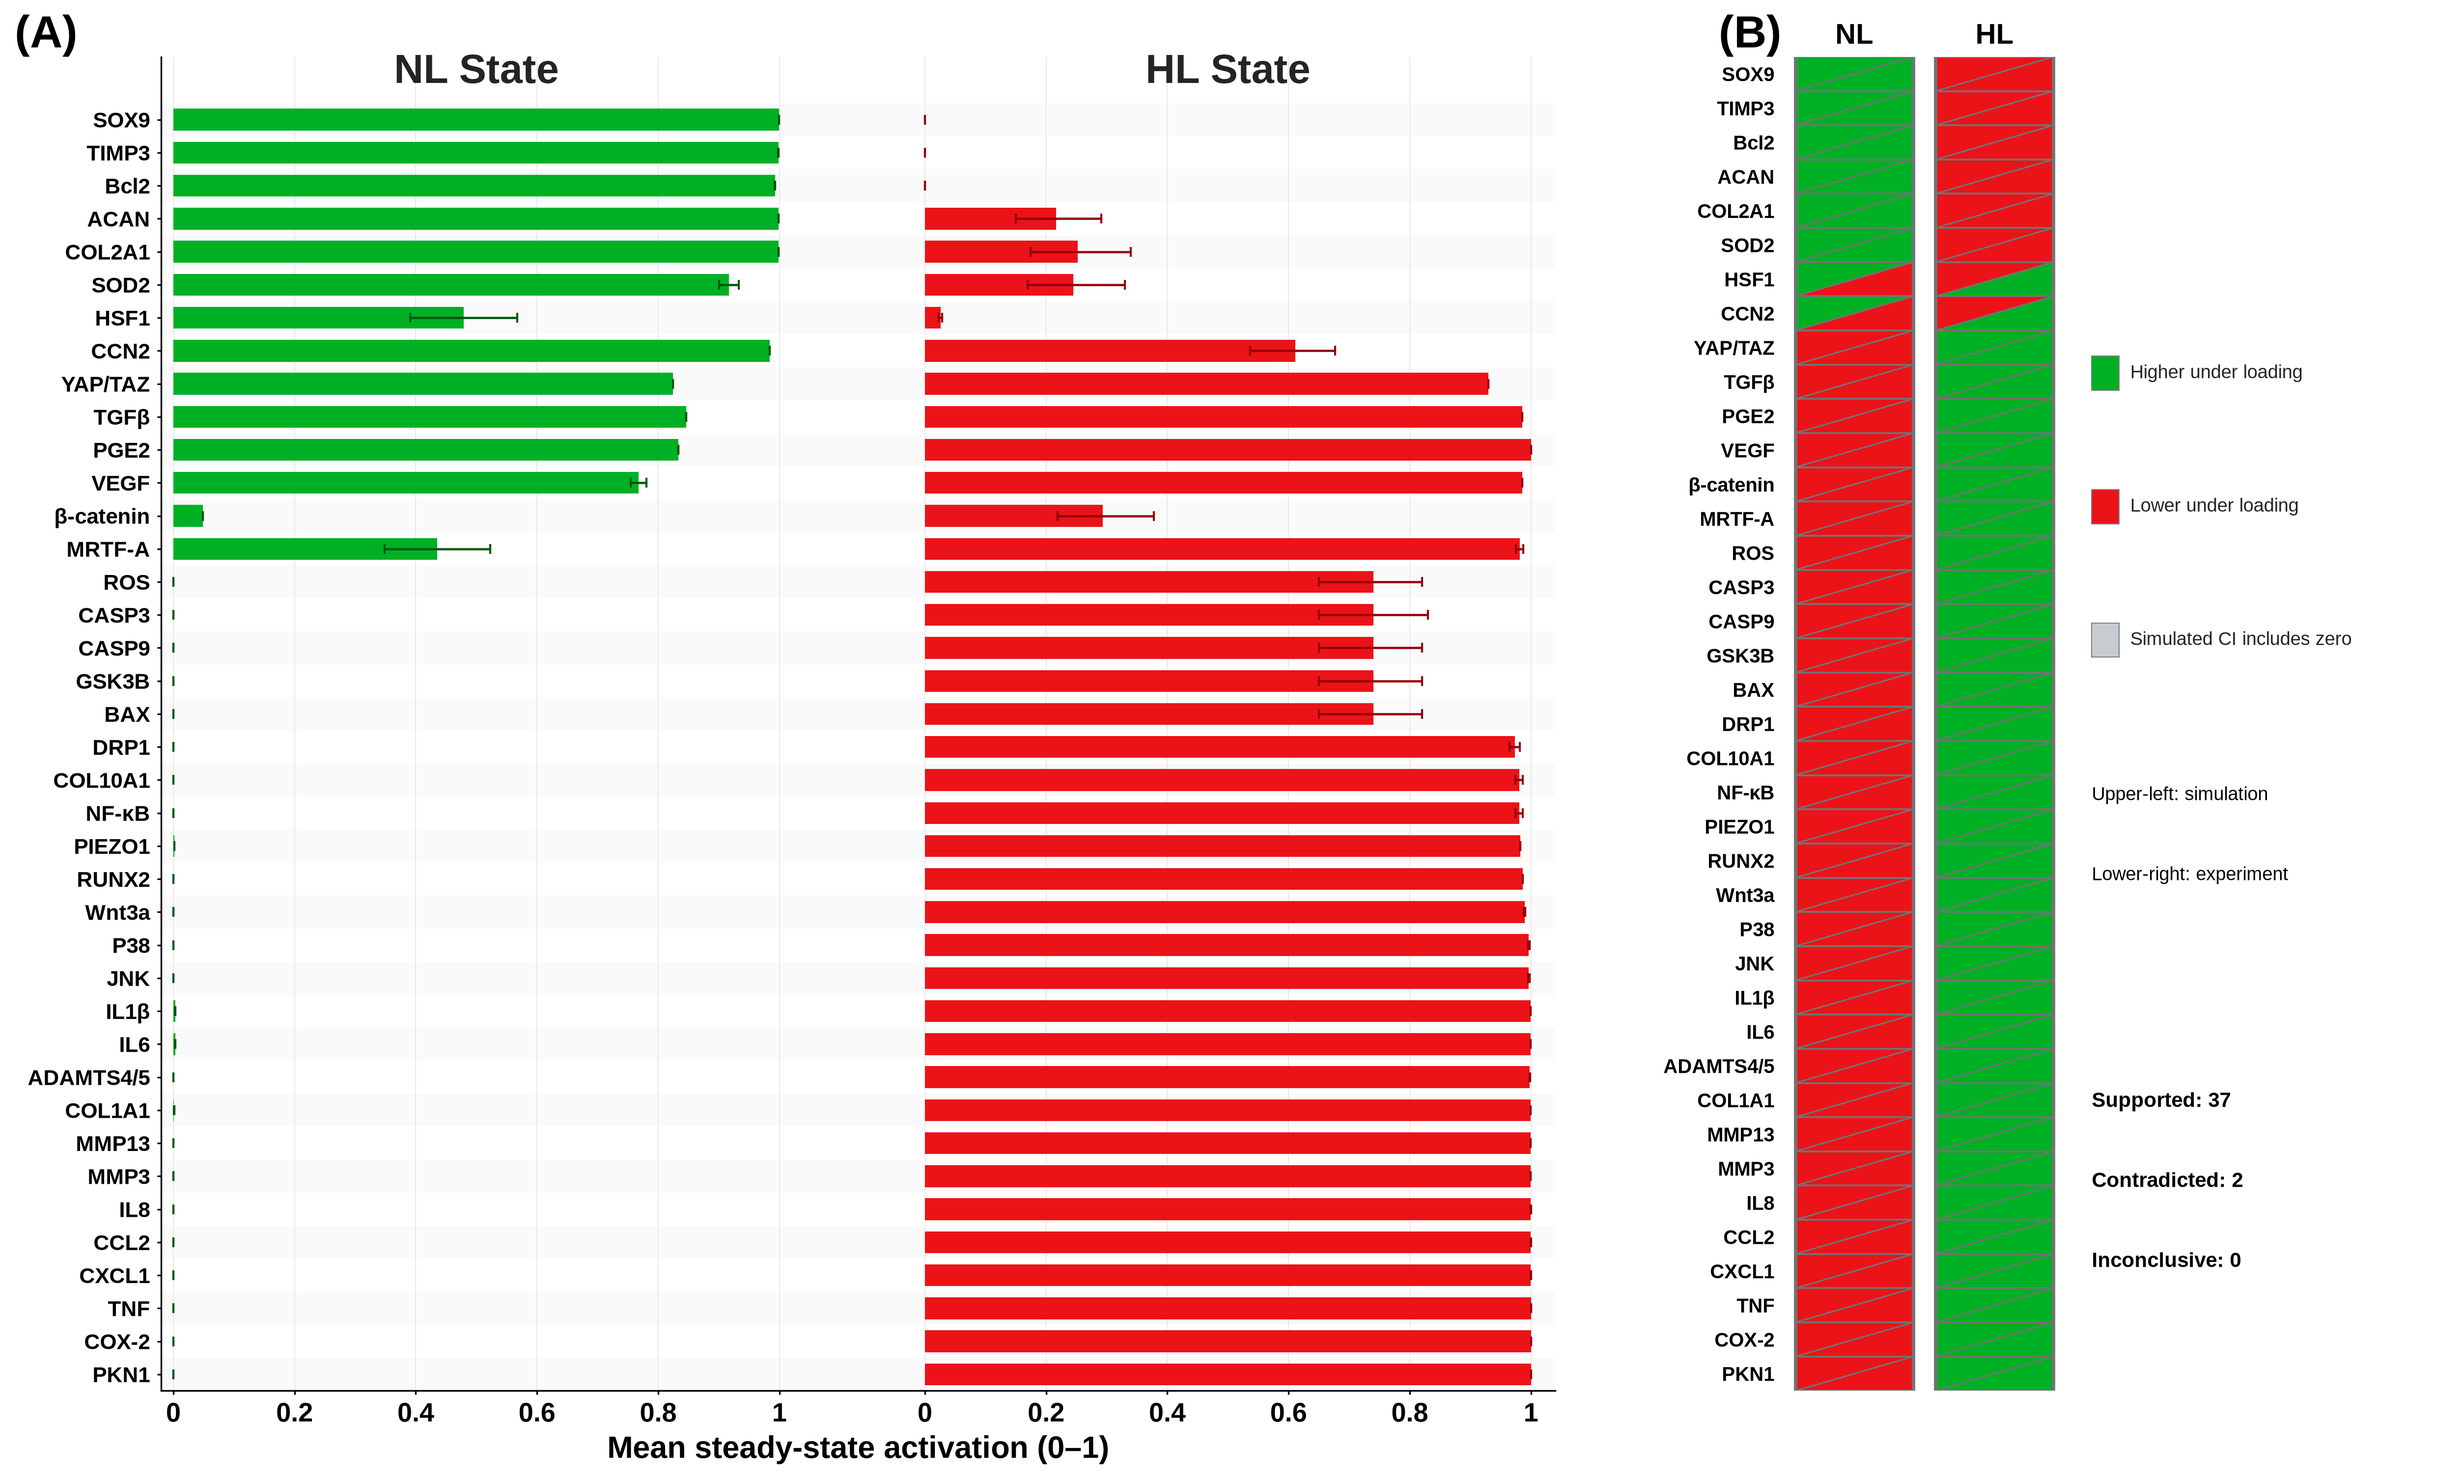
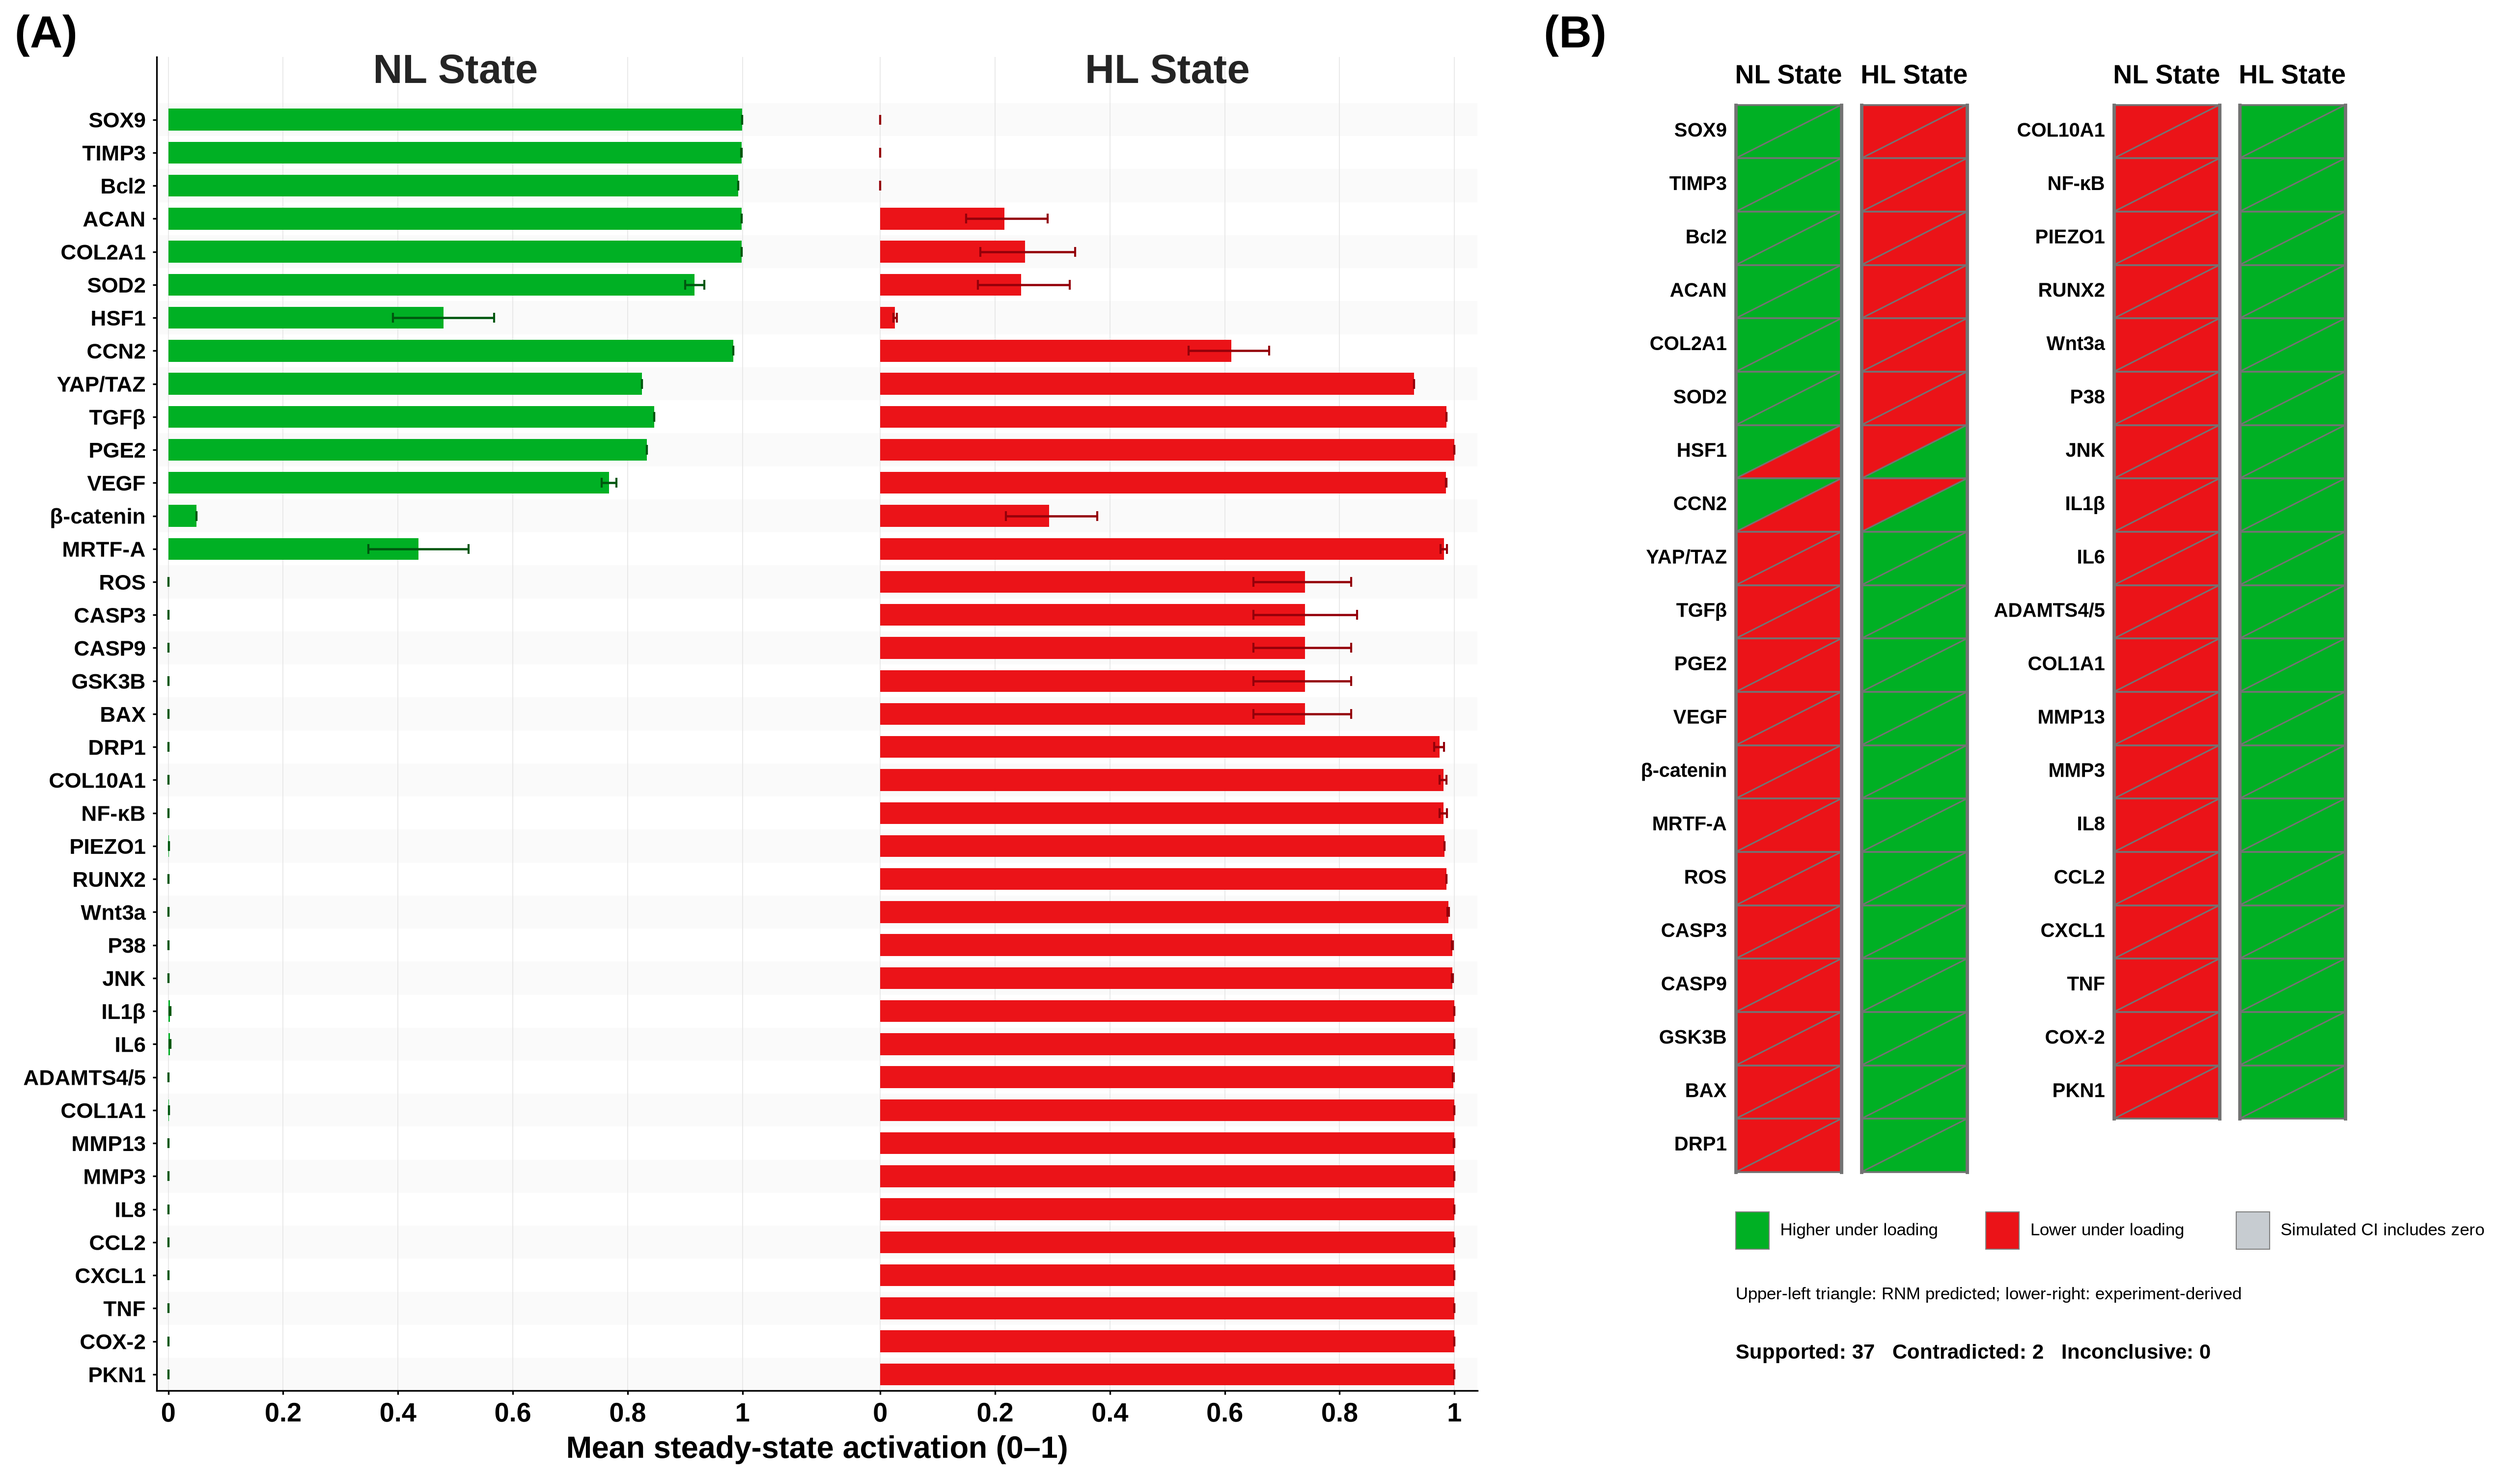
Match manuscript layout: two-block falsification sign grid, node-resolved titles

diff --git a/np_mt_rnm/paper_figures.py b/np_mt_rnm/paper_figures.py
@@ -122,9 +122,9 @@ NODE_RESOLVED_FIGURES = {
         ("CYT", "Cytokines, chemokines and proteases"),
     ],
     "NodeResolved_MET_ION_SURV_OXI": [
-        ("MET", "Metabolic and related regulators"),
-        ("ION", "Ion channels and related processes"),
-        ("CS", "Cell survival, apoptosis, mitophagy and DNA damage"),
+        ("MET", "Metabolic and related"),
+        ("ION", "Ion channels and related"),
+        ("CS", "Cell survival, apoptosis and mitophagy"),
         ("OXI", "Oxidative-stress defense and proteostasis"),
     ],
 }
@@ -509,7 +509,7 @@ def plot_falsification_profiles(nodes: Sequence[str], classes: Sequence[str],
     n = len(nodes)
 
     fig = plt.figure(figsize=(20, 0.24 * n + 2.4))
-    gs = fig.add_gridspec(1, 2, width_ratios=[2.1, 1], wspace=0.22)
+    gs = fig.add_gridspec(1, 2, width_ratios=[1.9, 1.2], wspace=0.12)
 
     # --- A: parallel bars -------------------------------------------------
     ax = fig.add_subplot(gs[0])
@@ -539,7 +539,7 @@ def plot_falsification_profiles(nodes: Sequence[str], classes: Sequence[str],
     ax.text(-0.06, 1.0, "(A)", transform=ax.transAxes, fontsize=22, fontweight="bold",
             ha="right", va="bottom")
 
-    # --- B: sign grid -----------------------------------------------------
+    # --- B: sign grid, split into two blocks as in the manuscript ---------
     ax = fig.add_subplot(gs[1])
     exp_dir = np.where(classes == "anabolic", 1, -1)
     sim_dir = np.zeros(n, dtype=int)
@@ -552,46 +552,45 @@ def plot_falsification_profiles(nodes: Sequence[str], classes: Sequence[str],
             return FALS_GRAY
         return FALS_GREEN if (d == 1 and code == 2) or (d == -1 and code == 1) else FALS_RED
 
-    bounds = [(0.56, 1.51), (1.69, 2.64)]
-    for i in range(n):
-        yt, yb = i + 0.5, i + 1.5
-        for col, (xl, xr) in enumerate(bounds):
-            code = 2 - col
-            ax.fill([xl, xr, xl], [yt, yt, yb], color=colour(sim_dir[i], code), lw=0)
-            ax.fill([xr, xr, xl], [yt, yb, yb], color=colour(exp_dir[i], code), lw=0)
-            ax.plot([xr, xl], [yt, yb], color=FALS_EDGE, lw=0.76)
-    for xl, xr in bounds:
-        ax.plot([xl, xl], [0.5, n + 0.5], color=FALS_EDGE, lw=1.65)
-        ax.plot([xr, xr], [0.5, n + 0.5], color=FALS_EDGE, lw=1.65)
-        for j in range(n + 1):
-            ax.plot([xl, xr], [j + 0.5, j + 0.5], color=FALS_EDGE, lw=0.9)
+    half = int(np.ceil(n / 2))
+    blocks = [(0, range(0, half)), (3.4, range(half, n))]
+    col_w, gap = 0.95, 0.18
+    for ox, rows in blocks:
+        bounds = [(ox + 0.56, ox + 0.56 + col_w), (ox + 0.56 + col_w + gap, ox + 0.56 + 2 * col_w + gap)]
+        for r, i in enumerate(rows):
+            yt, yb = r + 0.5, r + 1.5
+            for col, (xl, xr) in enumerate(bounds):
+                code = 2 - col
+                ax.fill([xl, xr, xl], [yt, yt, yb], color=colour(sim_dir[i], code), lw=0)
+                ax.fill([xr, xr, xl], [yt, yb, yb], color=colour(exp_dir[i], code), lw=0)
+                ax.plot([xr, xl], [yt, yb], color=FALS_EDGE, lw=0.76)
+            ax.text(ox + 0.48, r + 1, nodes[i], ha="right", va="center", fontsize=9.6)
+        m = len(rows)
+        for xl, xr in bounds:
+            ax.plot([xl, xl], [0.5, m + 0.5], color=FALS_EDGE, lw=1.65)
+            ax.plot([xr, xr], [0.5, m + 0.5], color=FALS_EDGE, lw=1.65)
+            for j in range(m + 1):
+                ax.plot([xl, xr], [j + 0.5, j + 0.5], color=FALS_EDGE, lw=0.9)
+        for (xl, xr), lab in zip(bounds, ("NL State", "HL State")):
+            ax.text((xl + xr) / 2, 0.2, lab, ha="center", va="bottom", fontsize=13)
     support = int(np.sum(sim_dir == exp_dir))
     opposite = int(np.sum(sim_dir == -exp_dir))
     uncertain = int(np.sum(sim_dir == 0))
-    key_x = 2.95
+    ky = half + 1.6
     for k, (c, lab) in enumerate([(FALS_GREEN, "Higher under loading"),
                                   (FALS_RED, "Lower under loading"),
                                   (FALS_GRAY, "Simulated CI includes zero")]):
-        yk = n * (0.25 + 0.1 * k)
-        ax.fill([key_x, key_x + 0.22, key_x + 0.22, key_x],
-                [yk - 0.5, yk - 0.5, yk + 0.5, yk + 0.5], color=c, ec=(0.5, 0.5, 0.5), lw=0.5)
-        ax.text(key_x + 0.31, yk, lab, va="center", fontsize=9, color=FALS_DARK,
-                fontweight="normal")
-    ax.text(key_x, n * 0.57, "Upper-left: simulation", fontsize=9, fontweight="normal")
-    ax.text(key_x, n * 0.63, "Lower-right: experiment", fontsize=9, fontweight="normal")
-    for k, (lab, v) in enumerate([("Supported", support), ("Contradicted", opposite),
-                                  ("Inconclusive", uncertain)]):
-        ax.text(key_x, n * (0.80 + 0.06 * k), f"{lab}: {v}", fontsize=10)
-    ax.set_ylim(n + 0.5, 0.5)
-    ax.set_xlim(0.45, 5.8)
-    ax.set_yticks(np.arange(1, n + 1))
-    ax.set_yticklabels(nodes, fontsize=9.6)
-    ax.set_xticks([np.mean(b) for b in bounds])
-    ax.set_xticklabels(["NL", "HL"], fontsize=14)
-    ax.xaxis.set_ticks_position("top")
-    ax.tick_params(length=0)
-    for sp in ax.spines.values():
-        sp.set_visible(False)
+        x0 = 0.56 + 2.25 * k
+        ax.fill([x0, x0 + 0.3, x0 + 0.3, x0], [ky - 0.35, ky - 0.35, ky + 0.35, ky + 0.35],
+                color=c, ec=(0.5, 0.5, 0.5), lw=0.5)
+        ax.text(x0 + 0.4, ky, lab, va="center", fontsize=8.5, fontweight="normal")
+    ax.text(0.56, ky + 1.2, "Upper-left triangle: RNM predicted; lower-right: experiment-derived",
+            fontsize=8.5, va="center", fontweight="normal")
+    ax.text(0.56, ky + 2.3, f"Supported: {support}   Contradicted: {opposite}   "
+            f"Inconclusive: {uncertain}", fontsize=10, va="center")
+    ax.set_ylim(ky + 3.0, -0.4)
+    ax.set_xlim(-0.6, 6.9)
+    ax.axis("off")
     ax.text(0.0, 1.0, "(B)", transform=ax.transAxes, fontsize=22, fontweight="bold",
             ha="right", va="bottom")
     _save(fig, out_path)
